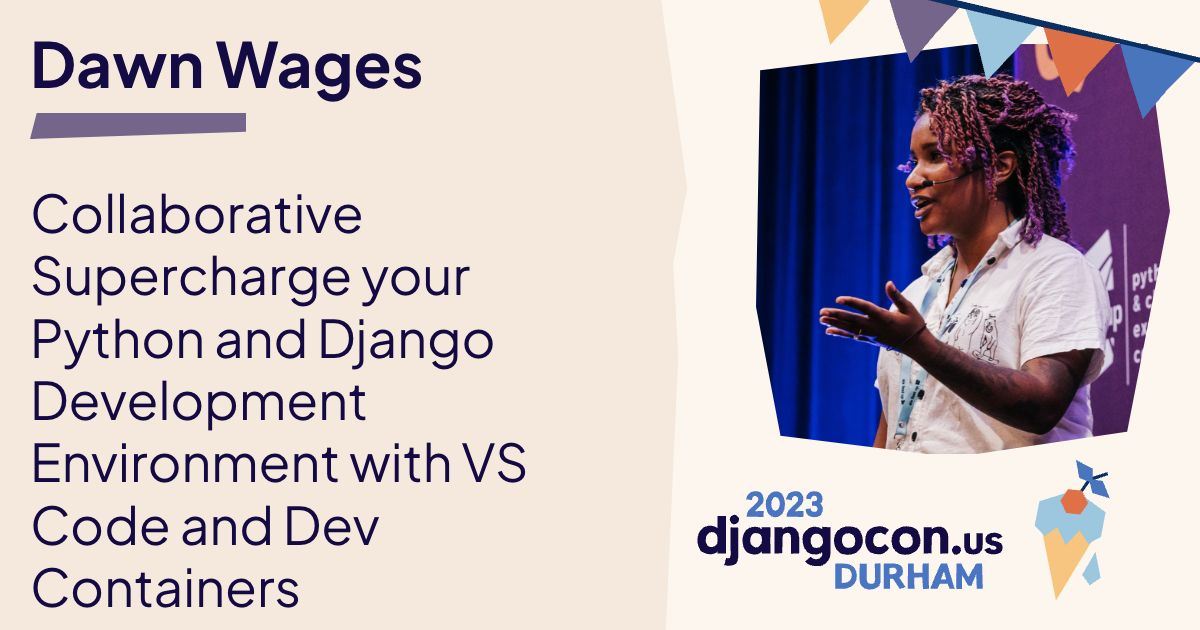
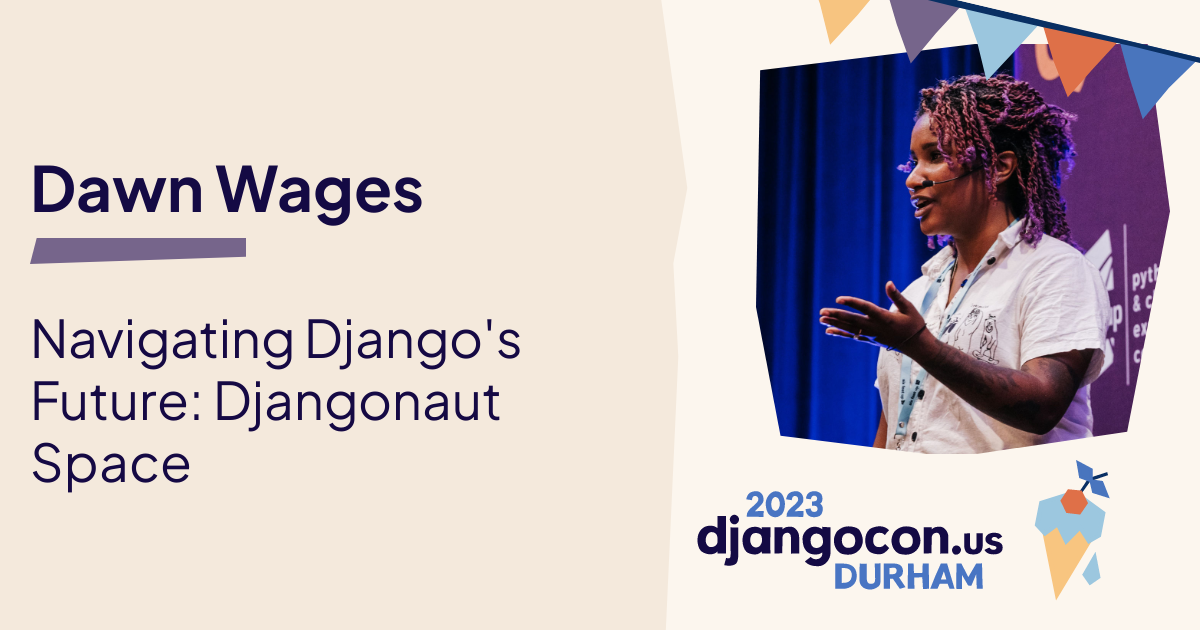
Add missing presenter information.
Support the social make file.

Fix syntax issue on djangonaut space talk.

diff --git a/_presenters/tim-allen.md b/_presenters/tim-allen.md
@@ -1,0 +1,24 @@
+---
+github: FlipperPA
+hidden: false
+layout: speaker-template
+mastodon: https://fosstodon.org/@FlipperPA
+name: Tim Allen
+permalink: /presenters/tim-allen/
+photo_url: /static/img/presenters/tallen.jpg
+slug: tim-allen
+twitter: FlipperPA
+website: https://PyPhilly.org/
+---
+
+Tim joined [Wharton Research Data Services](https://wrds-www.wharton.upenn.edu/)
+in 2008, after working for local companies and starting a few of his own. Having
+started programming at age six, he is currently an organizer of the Philadelphia
+Python Users Group, Code for Recovery, and a member of the Python Software Foundation
+and Django Software Foundation. Tim enjoys playing very loud guitar with lots of pedals,
+is an avid cyclist, was
+[the first person to sell real world items for virtual microcurrency](https://www.mtv.com/news/g3te5b/finally-you-can-buy-something-real-with-play-money)
+long before Bitcoin, and enjoys beating his head against brick walls (as demonstrated
+by his passion for coding, cycling in Philadelphia, and never-ending quest to get his
+cat to behave). A life-long Philadelphia resident, he graduated from the University
+of Pennsylvania in 1996 with an individualized major, “Computer Aided Information Acquisition”.

diff --git a/_presenters/rachell-calhoun.md b/_presenters/rachell-calhoun.md
@@ -1,0 +1,24 @@
+---
+github: RachellCalhoun
+hidden: false
+layout: speaker-template
+mastodon: https://mastodon.social/@Rachell
+name: Rachell Calhoun
+slug: rachell-calhoun
+permalink: /presenters/rachell-calhoun/
+photo_url: /static/img/organizers/rachell-calhoun.jpg
+twitter: Rachell_Calhoun
+website: https://www.rachellcalhoun.com/
+---
+
+Rachell is a Django developer with a profound passion for creating practical,
+user-friendly software tools and fostering inclusivity within communities
+where members come away with something better.
+
+Currently serving as a trustee for Django Girls and an organizer for PyLadies,
+DjangoCon US, and Djangonaut Space, she is dedicated to empowering individuals to
+delve their own boundaries, and find their own way out to accomplishing their
+goals.
+
+Rachell's advocacy for lifelong learning extends beyond technology, as she's
+currently taking her chances into the world of music composition and performance.

diff --git a/_schedule/talks/2023-10-17-14-05-t1-navigating-djangos-future-djangonaut-space.md b/_schedule/talks/2023-10-17-14-05-t1-navigating-djangos-future-djangonaut-space.md
@@ -5,7 +5,7 @@ category: talks
 date: 2023-10-17 14:05:00-04:00
 end_date: 2023-10-17 14:50:00-04:00
 group: talks
-image: https://2023.djangocon.us//static/img/social/presenters/paul-gilzow.png
+image: https://2023.djangocon.us/static/img/social/presenters/rachell-calhoun.png
 layout: session-details
 permalink: /talks/navigating-djangos-future-djangonaut-space/
 presenter_slugs:
@@ -19,7 +19,7 @@ summary: ''
 tags:
 - testing
 - deployment
-title: Navigating Django''s Future:: Djangonaut Space
+title: "Navigating Django's Future: Djangonaut Space"
 track: t1
 ---
 

diff --git a/_schedule/talks/2023-10-17-14-55-t0-dont-buy-the-ai-hype.md b/_schedule/talks/2023-10-17-14-55-t0-dont-buy-the-ai-hype.md
@@ -5,7 +5,7 @@ category: talks
 date: 2023-10-17 14:55:00-04:00
 end_date: 2023-10-17 15:20:00-04:00
 group: talks
-image: https://2023.djangocon.us//static/img/presenters/tallen.png
+image: https://2023.djangocon.us/static/img/social/presenters/tallen.png
 layout: session-details
 permalink: /talks/dont-buy-the-ai-hype/
 presenter_slugs:
